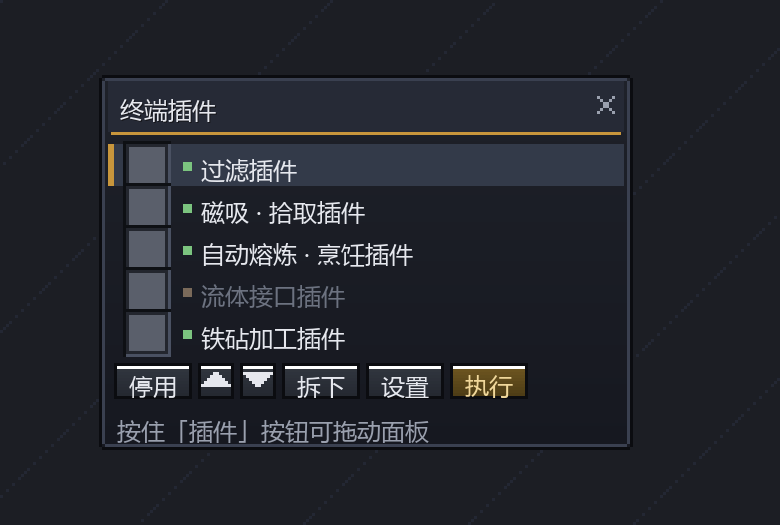
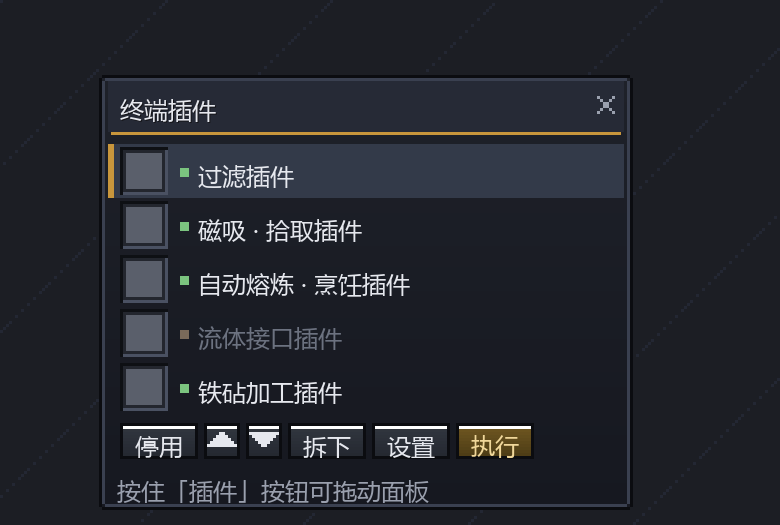
fix(ui): 统一内容左边距、行高与按钮行距；版本 1.7.3
列表行高 14→18（16 像素图标完整落在行内）；标题/图标/按钮统一 6 像素左边距；安装台按钮行距 20→18 与 3×3 暂存槽逐行对齐；+N 提示移入最后一行右侧。

Changed region(s): [[0.1231, 0.2743, 0.8, 0.9752], [0.8, 0.8533, 0.8308, 0.9448]]

diff --git a/src/main/java/dev/anvilcraft/addon/terminalplugins/client/TerminalPluginPanel.java b/src/main/java/dev/anvilcraft/addon/terminalplugins/client/TerminalPluginPanel.java
@@ -31,6 +31,14 @@ public class TerminalPluginPanel implements PluginSettingsView.Ctx {
     private static final int PANEL_WIDTH = 176;
     private static final int DRAG_THRESHOLD = 3;
     private static final int VISIBLE_ROWS = 5;
+    /** 列表行高：16 像素图标 + 上下各 1 像素留白，图标才完整落在行内。 */
+    private static final int ROW_HEIGHT = 18;
+    /** 底部按钮行高。 */
+    private static final int BUTTON_ROW_HEIGHT = 12;
+    /** 面板底部留给拖动提示的高度。 */
+    private static final int FOOTER_HEIGHT = 16;
+    /** 内容左边距：标题、图标、按钮共用同一条竖线，看起来才是「对齐」的。 */
+    private static final int MARGIN = 6;
     private static final String POSITION_FILE = "anvilcraft_terminal_plugins_panel.txt";
 
     // 本地动作（非网络动作，用负数与 PluginActionPacket 的动作区分）
@@ -179,7 +187,8 @@ public class TerminalPluginPanel implements PluginSettingsView.Ctx {
         }
         if (!this.settingsOpen || plugins.isEmpty()) {
             int rows = Math.min(plugins.size(), TerminalPluginPanel.VISIBLE_ROWS);
-            return TerminalPluginPanel.CONTENT_OFFSET + Math.max(rows, 1) * 14 + 4 + 15 + 12;
+            return TerminalPluginPanel.CONTENT_OFFSET + Math.max(rows, 1) * TerminalPluginPanel.ROW_HEIGHT
+                   + 3 + TerminalPluginPanel.BUTTON_ROW_HEIGHT + TerminalPluginPanel.FOOTER_HEIGHT;
         }
         ItemStack plugin = plugins.get(Math.clamp(this.selected, 0, plugins.size() - 1));
         int content = plugin.getItem() instanceof TerminalPluginItem item
@@ -510,36 +519,40 @@ public class TerminalPluginPanel implements PluginSettingsView.Ctx {
         for (int index = 0; index < rows; index++) {
             ItemStack plugin = plugins.get(index);
             boolean hovered = mouseX >= x + 2 && mouseX < x + TerminalPluginPanel.PANEL_WIDTH - 2
-                              && mouseY >= rowY && mouseY < rowY + 14;
+                              && mouseY >= rowY && mouseY < rowY + TerminalPluginPanel.ROW_HEIGHT;
             PanelStyle.row(
-                graphics, x + 2, rowY, TerminalPluginPanel.PANEL_WIDTH - 4, 14,
+                graphics, x + 2, rowY, TerminalPluginPanel.PANEL_WIDTH - 4, TerminalPluginPanel.ROW_HEIGHT,
                 index == this.selected, hovered
             );
-            graphics.renderItem(plugin, x + 7, rowY - 1);
+            // 图标 16 像素、行高 18 像素：上下各留 1 像素，图标与行框、文字基线都对齐
+            graphics.renderItem(plugin, x + TerminalPluginPanel.MARGIN, rowY + 1);
             boolean enabled = TerminalPluginManager.isEnabled(plugin);
-            PanelStyle.dot(graphics, x + 27, rowY + 6, enabled);
+            PanelStyle.dot(graphics, x + TerminalPluginPanel.MARGIN + 20, rowY + 8, enabled);
             String name = plugin.getHoverName().getString();
-            String label = minecraft.font.width(name) > TerminalPluginPanel.PANEL_WIDTH - 54
-                ? minecraft.font.plainSubstrByWidth(name, TerminalPluginPanel.PANEL_WIDTH - 54)
+            String label = minecraft.font.width(name) > TerminalPluginPanel.PANEL_WIDTH - 46
+                ? minecraft.font.plainSubstrByWidth(name, TerminalPluginPanel.PANEL_WIDTH - 46)
                 : name;
-            graphics.drawString(minecraft.font, label, x + 33, rowY + 3,
+            graphics.drawString(minecraft.font, label, x + TerminalPluginPanel.MARGIN + 26, rowY + 5,
                 enabled ? PanelStyle.TEXT : PanelStyle.TEXT_DISABLED, false);
             if (!enabled) {
-                graphics.drawString(minecraft.font, "off", x + TerminalPluginPanel.PANEL_WIDTH - 20, rowY + 3,
+                graphics.drawString(minecraft.font, "off",
+                    x + TerminalPluginPanel.PANEL_WIDTH - 8 - minecraft.font.width("off"), rowY + 5,
                     PanelStyle.TEXT_DISABLED, false);
             }
-            this.addRegion(new Region(x + 2, rowY, TerminalPluginPanel.PANEL_WIDTH - 4, 14, TerminalPluginPanel.LOCAL_SELECT, index, -1), 0.0F, null);
-            rowY += 14;
+            this.addRegion(new Region(x + 2, rowY, TerminalPluginPanel.PANEL_WIDTH - 4, TerminalPluginPanel.ROW_HEIGHT, TerminalPluginPanel.LOCAL_SELECT, index, -1), 0.0F, null);
+            rowY += TerminalPluginPanel.ROW_HEIGHT;
         }
         if (plugins.size() > rows) {
-            graphics.drawString(minecraft.font, "+" + (plugins.size() - rows),
-                x + TerminalPluginPanel.PANEL_WIDTH - 16, rowY - 12, PanelStyle.TEXT_DIM, false);
+            String more = "+" + (plugins.size() - rows);
+            graphics.drawString(minecraft.font, more,
+                x + TerminalPluginPanel.PANEL_WIDTH - 10 - minecraft.font.width(more),
+                rowY - TerminalPluginPanel.ROW_HEIGHT + 5, PanelStyle.TEXT_DIM, false);
         }
 
         // 按钮宽度按「实测文字宽度 + 内边距」计算：中文两字比拉丁字符宽得多，
         // 写死宽度会把标签截断，看起来就像文字没有对上按钮。
         int buttonY = rowY + 3;
-        int buttonX = x + 4;
+        int buttonX = x + TerminalPluginPanel.MARGIN;
         String toggleKey = TerminalPluginManager.isEnabled(selectedPlugin)
             ? "screen.anvilcraft_terminal_plugins.panel.disable"
             : "screen.anvilcraft_terminal_plugins.panel.enable";

diff --git a/src/main/java/dev/anvilcraft/addon/terminalplugins/inventory/PluginStationMenu.java b/src/main/java/dev/anvilcraft/addon/terminalplugins/inventory/PluginStationMenu.java
@@ -52,7 +52,8 @@ public class PluginStationMenu extends AbstractContainerMenu {
     public static final int BUTTON_Y = 56;
     public static final int BUTTON_WIDTH = 70;
     public static final int BUTTON_HEIGHT = 16;
-    public static final int BUTTON_GAP = 4;
+    /** 行距与暂存槽一致（18 像素），三个按钮才会和 3×3 暂存槽逐行对齐。 */
+    public static final int BUTTON_GAP = 2;
 
     private final BlockPos pos;
     private final IItemHandler stationInventory;
